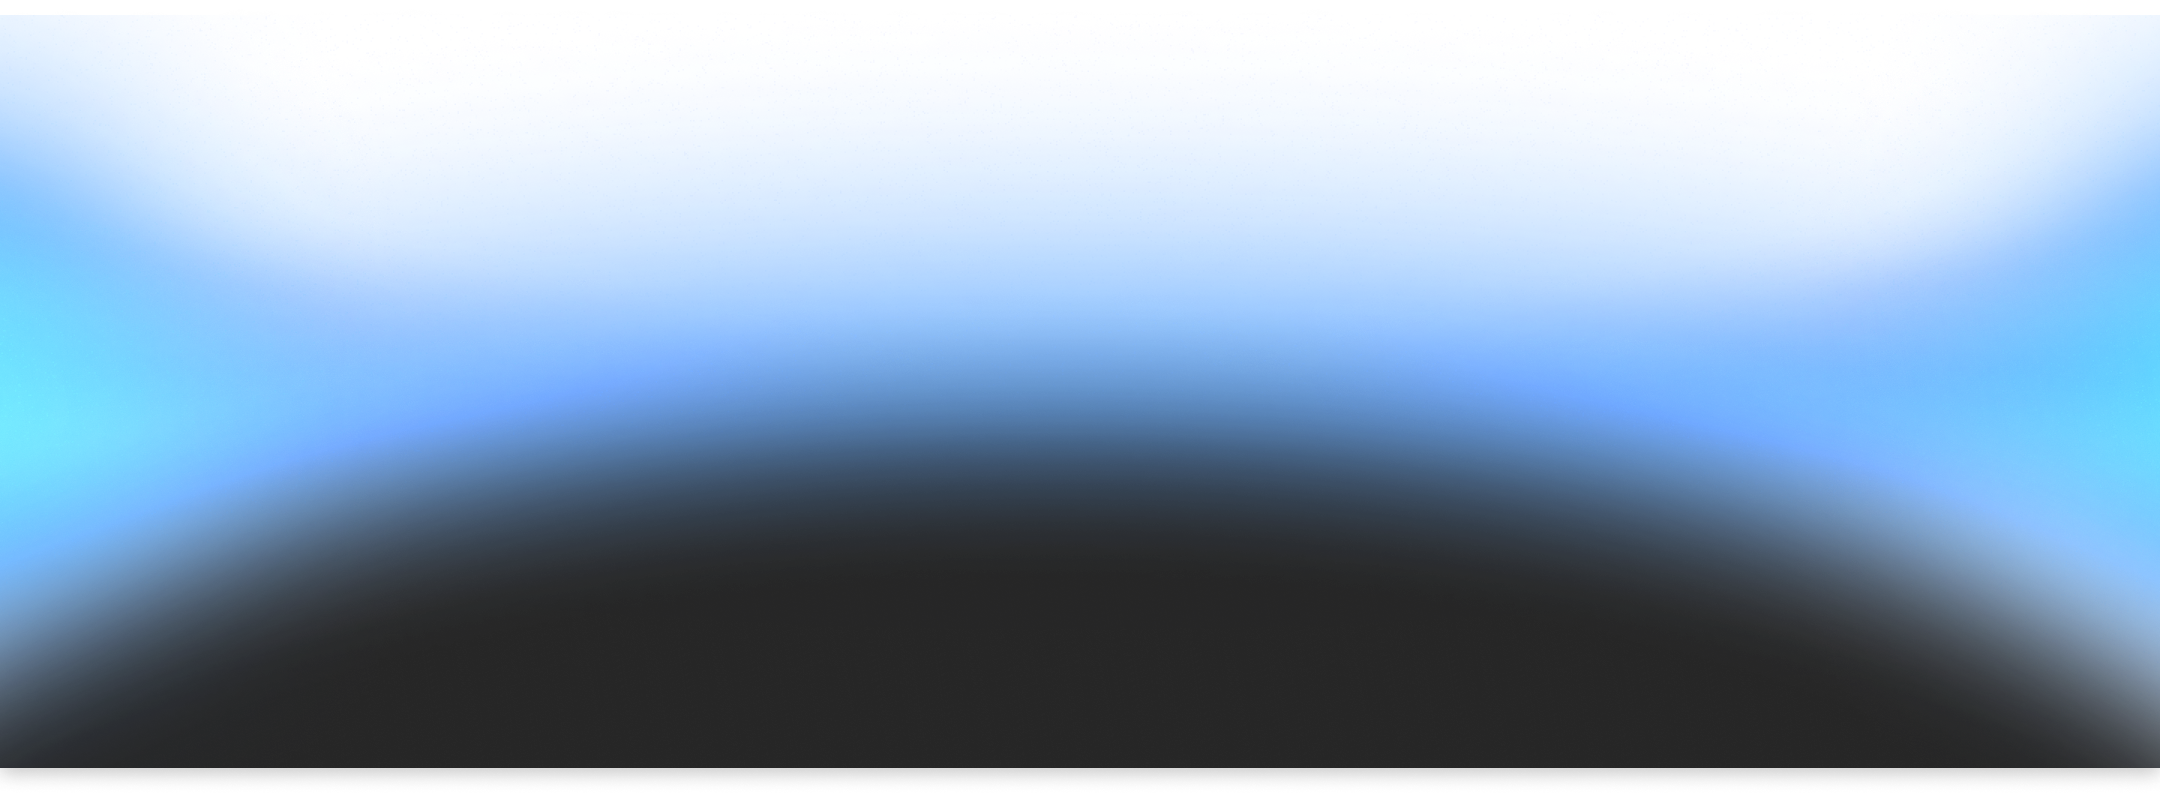
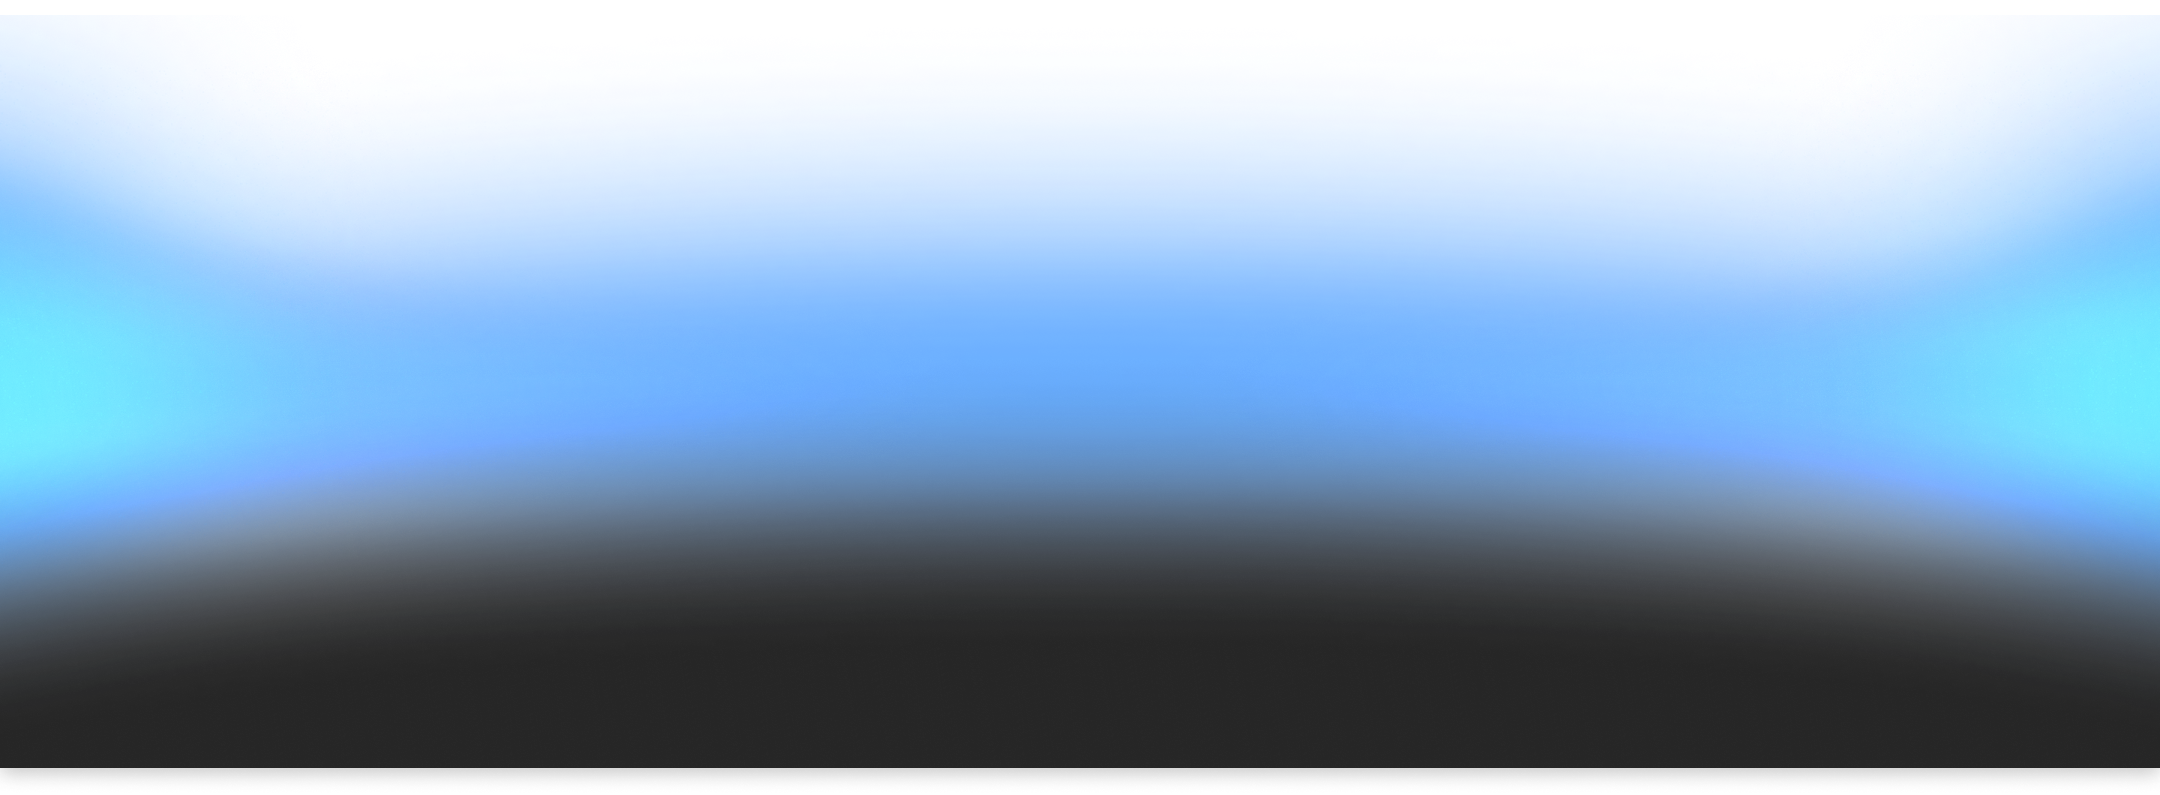
Adjust home principles layout: align items to center, update wrapper width, and replace background image.

diff --git a/src/components/home/home-principles.vue b/src/components/home/home-principles.vue
@@ -47,13 +47,13 @@
 
   &__wrapper {
     display: flex;
-    align-items: stretch;
+    align-items: center;
     gap: 80px;
   }
 
   &__left {
     flex-shrink: 0;
-    width: 35%;
+    width: 42%;
     display: flex;
     flex-direction: column;
     justify-content: space-between;
